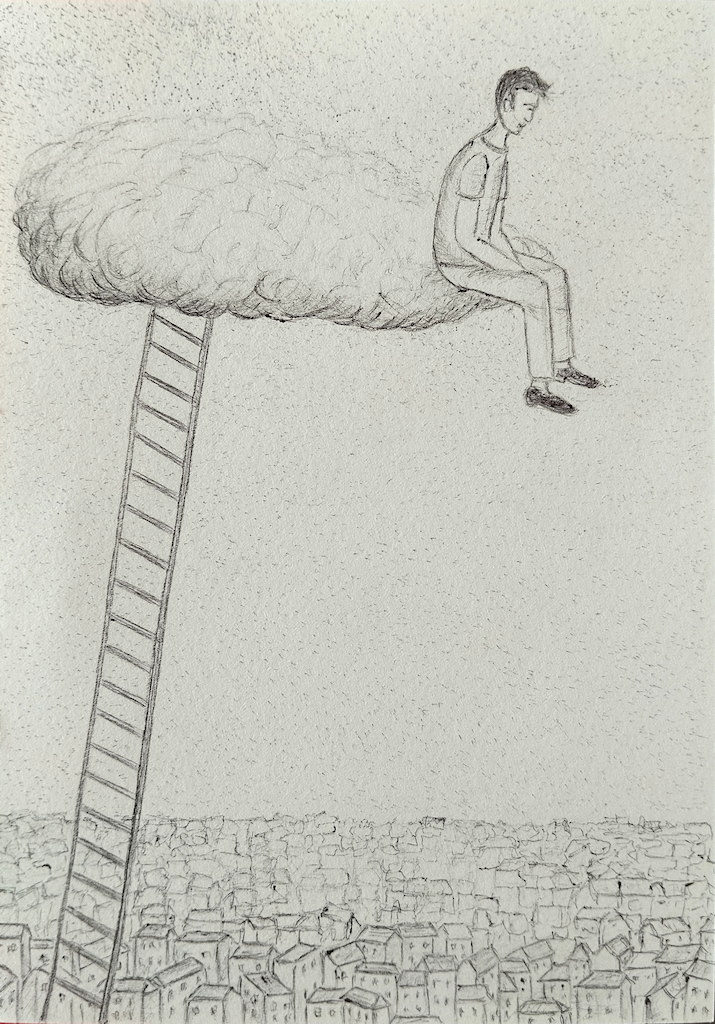
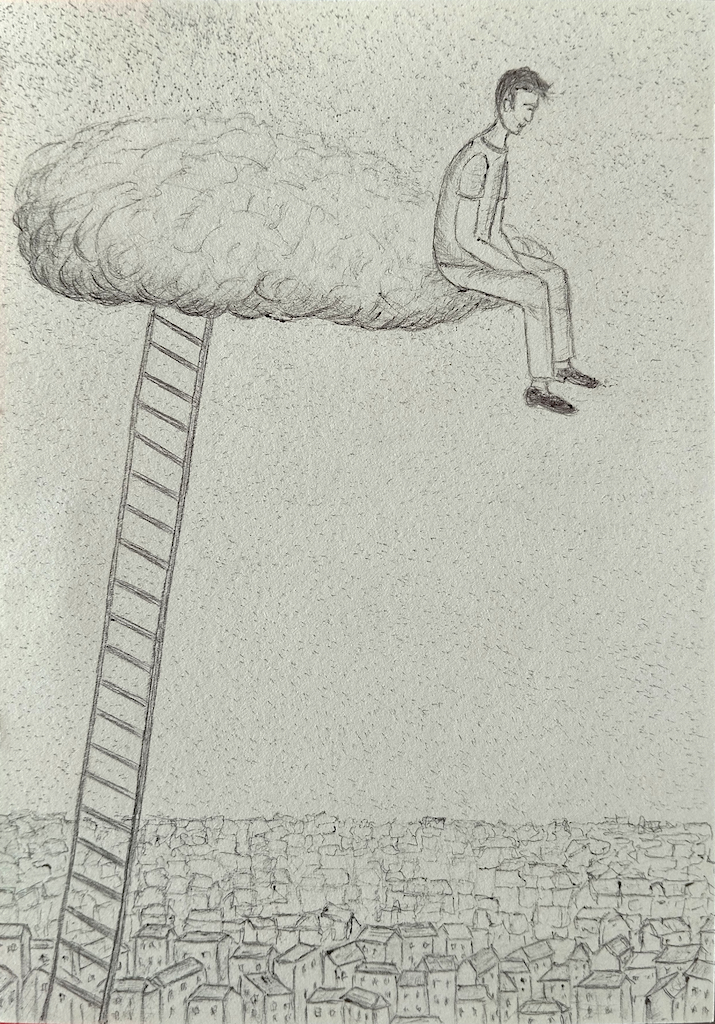
Nuovi disegni.

diff --git a/_sketches/2025.md b/_sketches/2025.md
@@ -4,18 +4,22 @@ title:  2025
 subtitle: "Sketches"
 short-description: this is the short description
 images:
+  - image_path: 2025/IMG_20250831_082525.jpg
+    title: Man on the hedge.
+  - image_path: 2025/IMG_20250802_110557.jpg
+    title: Monocarpic.
   - image_path: 2025/IMG_20250710_192410.jpg
     title: Detachment.
   - image_path: 2025/IMG_20250614_072815.jpg 
     title: Stoma.
   - image_path: 2025/IMG_20250513_183445.jpg
-    title: The weight of existence.
+    title: Mutual embrace.
   - image_path: 2025/IMG_20250428_125838.jpg
-    title: The weight of existence.
+    title: The cage.
   - image_path: 2025/IMG_20250118_092648.jpg
-    title: The weight of existence.
+    title: How to disappear completely.
   - image_path: 2025/IMG_20250112_095946.jpg
-    title: The weight of existence.
+    title: Washing away.
 
 ---
 <center>
